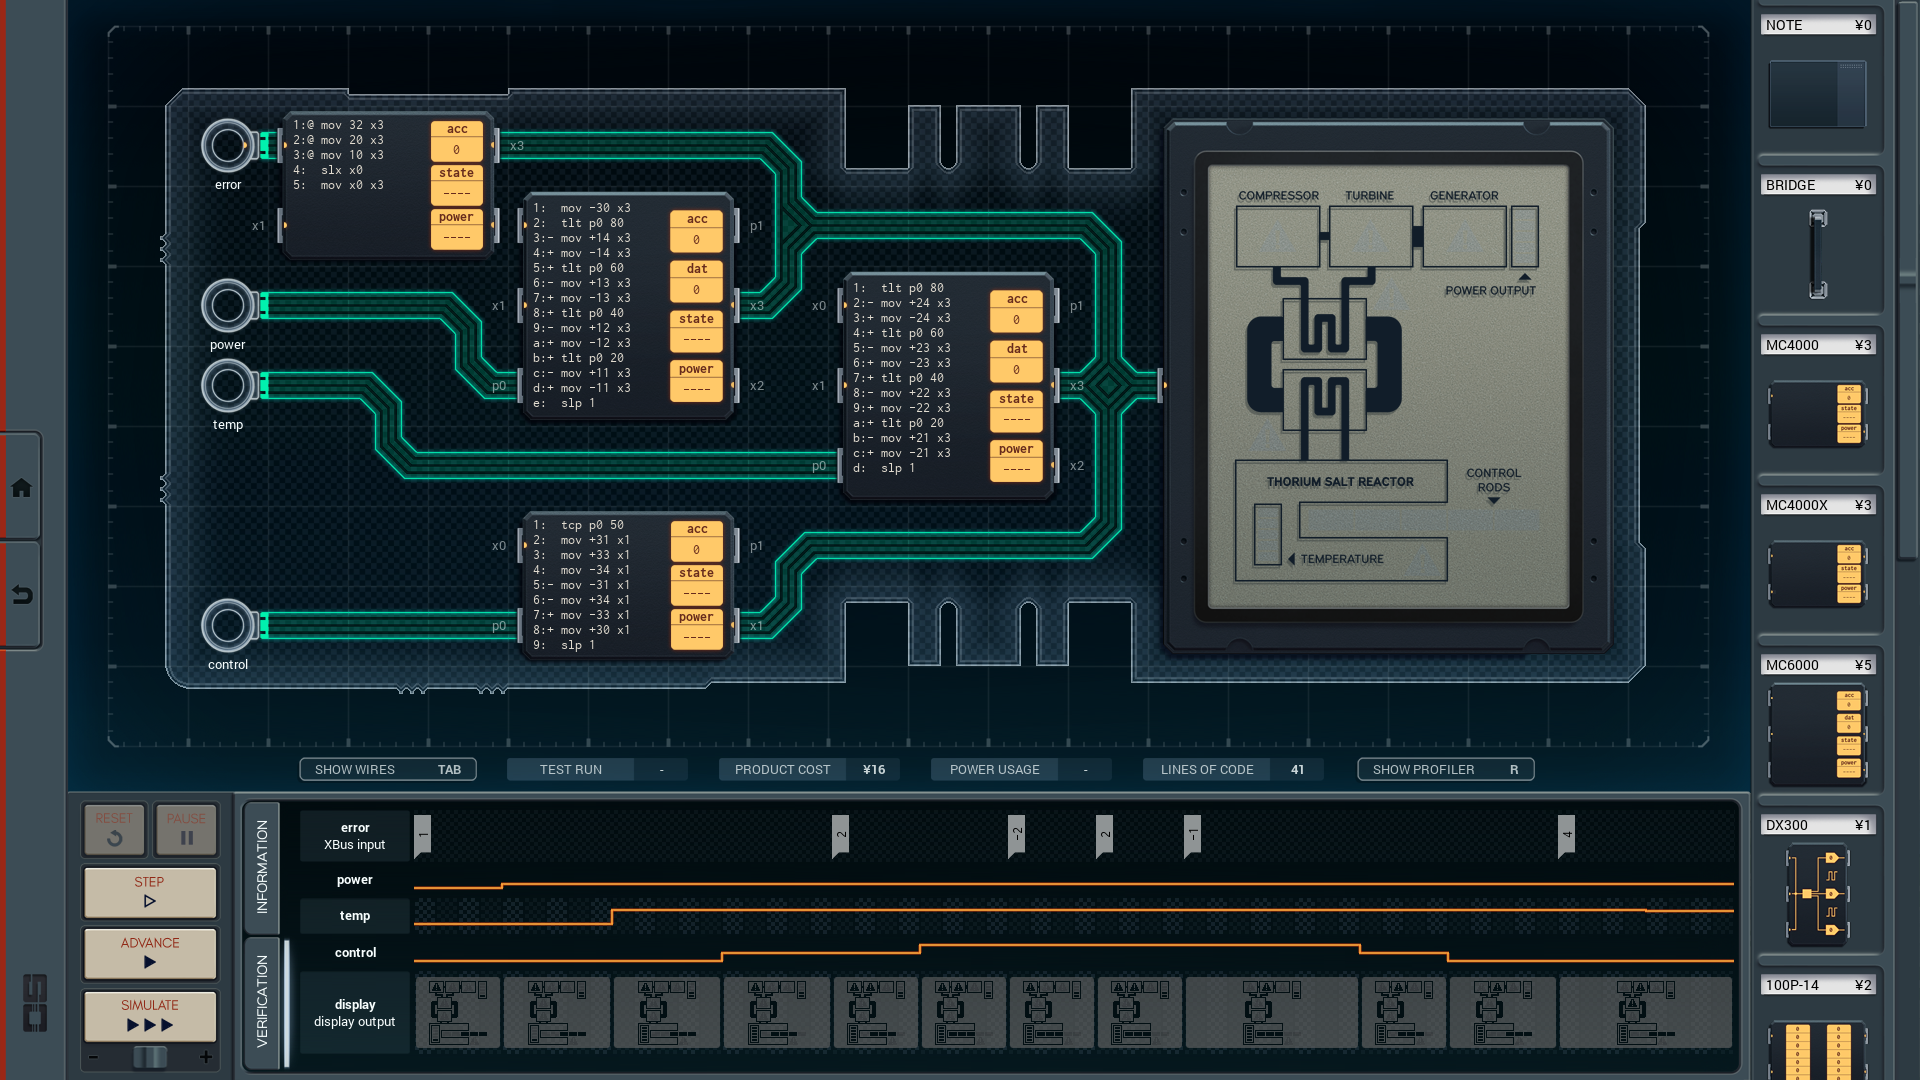
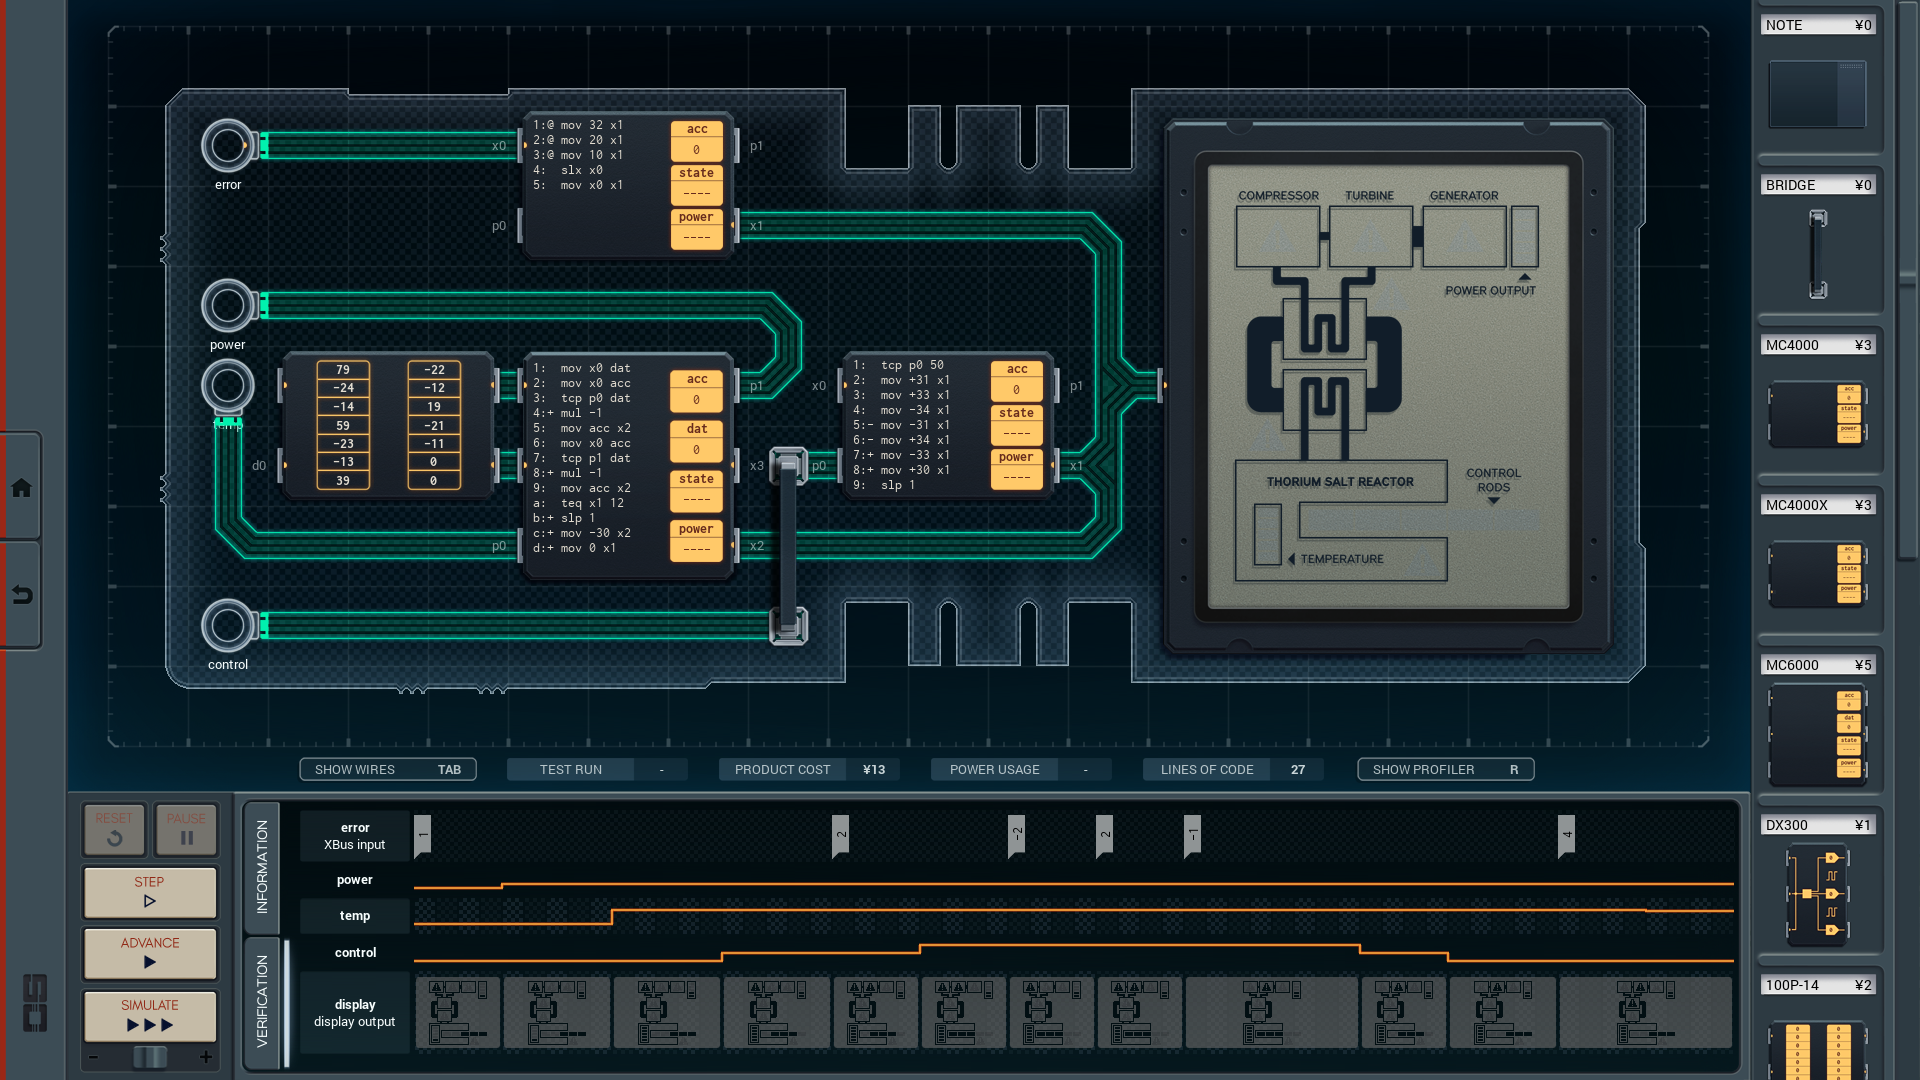
2023/07/19 Optimized the min cost & lines solution for Thorium Reactor Status Monitor.
[BEF] 16C / 1529P / 41L
[AFT] 13C / 2905P / 27L

Changed region(s): [[0.0938, 0.0917, 0.5938, 0.6111]]

diff --git a/038-thorium-reactor-status-monitor/README.md b/038-thorium-reactor-status-monitor/README.md
@@ -1,4 +1,4 @@
-16/1529/41 (MIN COST & LINES) SOLUTION
+13/2905/27 (MIN COST & LINES) SOLUTION
 --------------------------------------
 
 ![screenshot0](https://github.com/shiawasenahikari/Shenzhen-IO-Solutions/blob/master/038-thorium-reactor-status-monitor/screenshot0.png)
